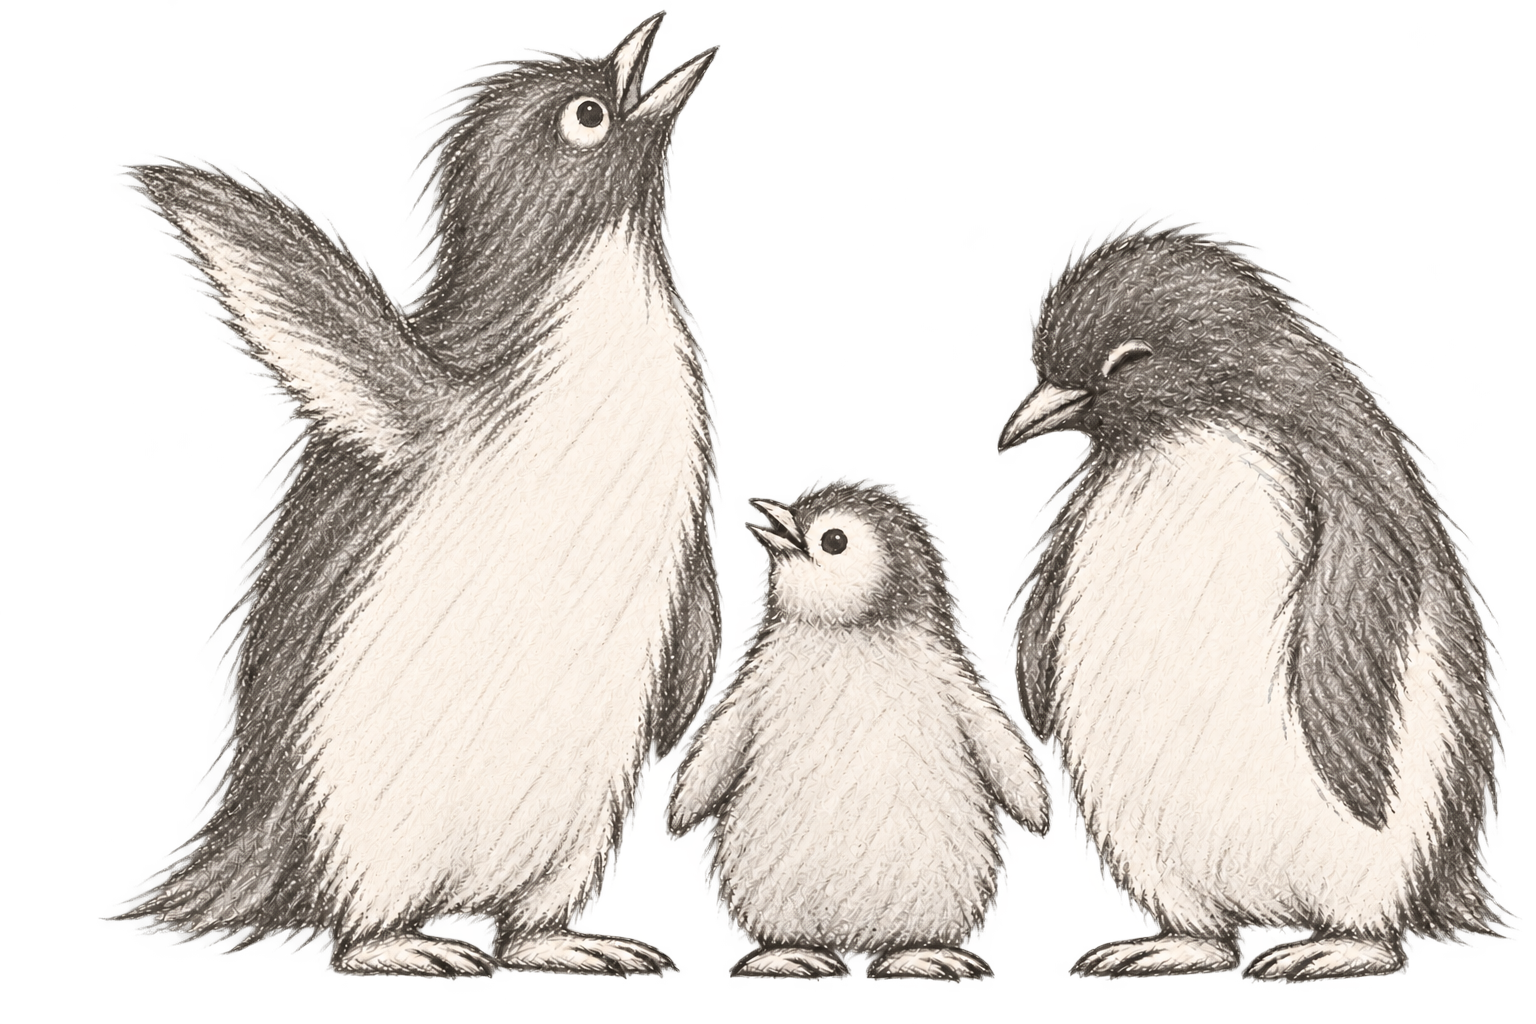
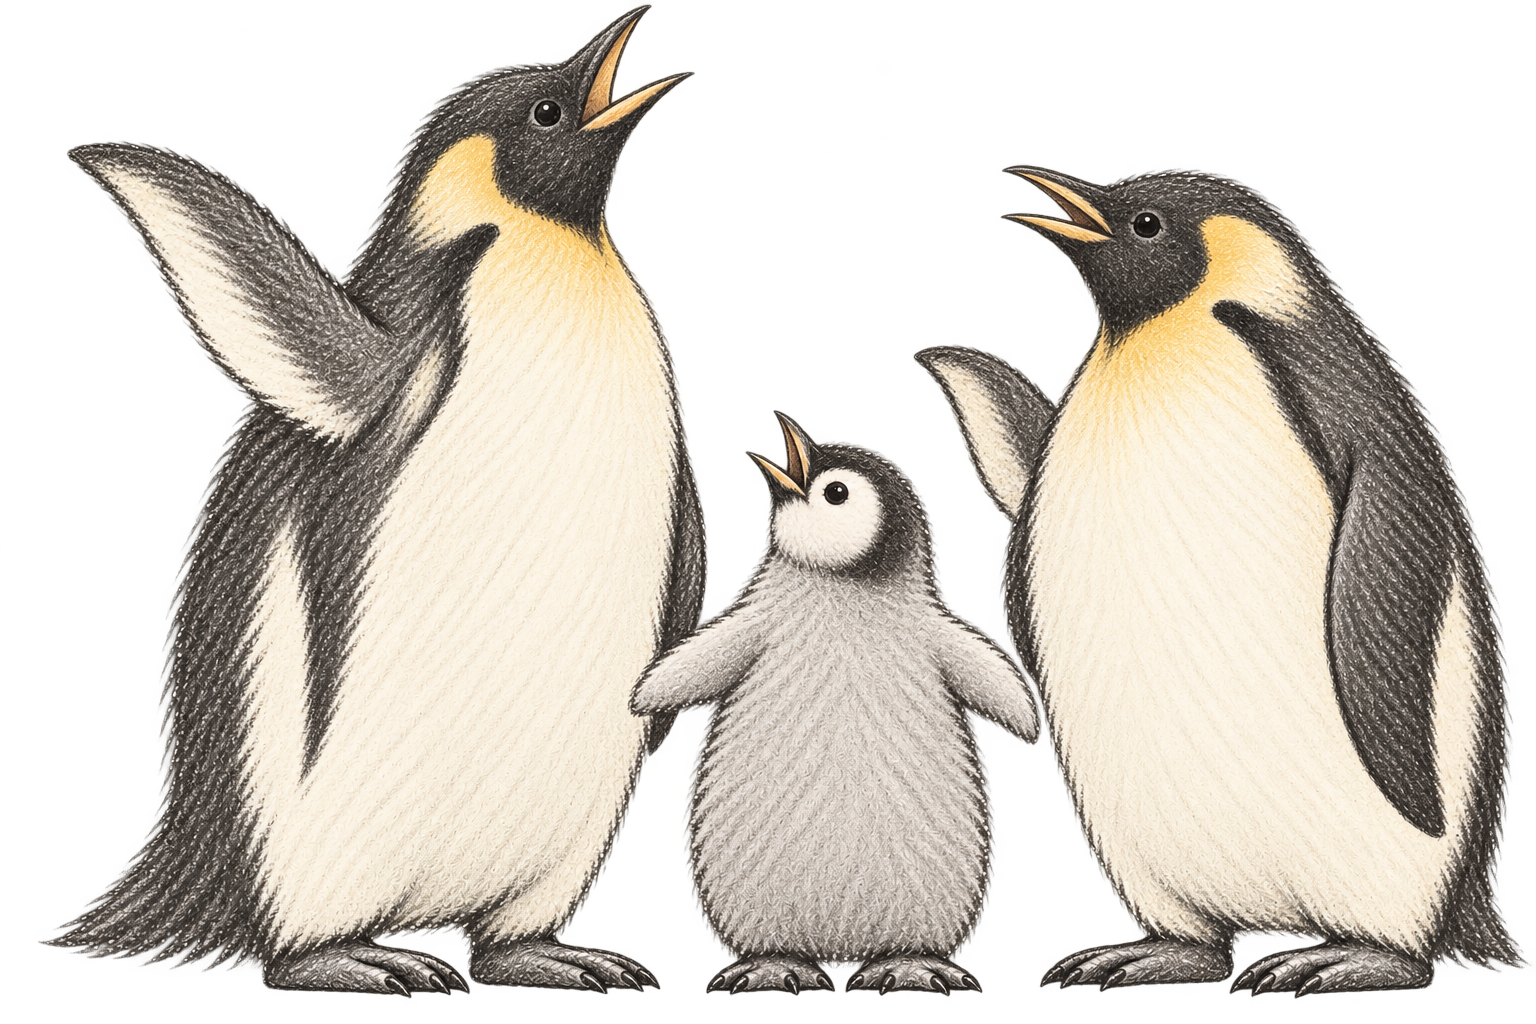
Update browser build with progressive sliding and animation refinements

diff --git a/src/physics.js b/src/physics.js
@@ -6,7 +6,7 @@ import {collideRocks,isSliding,applyRockFeedback} from './rocks.js';
 // Distances are world pixels; velocities are pixels/second. Mass is normalized to 1.
 export const CONFIG = Object.freeze({
   radius:17, halfHeight:22, gravity:1000, jump:300,
-  groundThrust:220, groundBrakeThrust:420, iceFriction:.018, iceLinearDrag:.025, iceQuadraticDrag:.00075,
+  groundThrust:220, groundBrakeThrust:420, slideRampTime:1, slideDriveGain:.12, iceFriction:.018, iceLinearDrag:.025, iceQuadraticDrag:.00075,
   standingFriction:.6,standingSpeed:18,
   airControl:100, swimThrust:650, swimHorizontalThrust:4400, buoyancy:75,
   waterLinearDrag:.45, waterQuadraticDrag:.0024,
@@ -21,7 +21,7 @@ export const remainingCharge = p => clamp(p.energy/storedWork(CONFIG.maxDepth),0
 export function createPlayer(x=150,y=238) {
   return {x,y,vx:0,vy:0,wet:false,grounded:false,maxDepth:0,energy:0,boosting:false,
     facing:1,event:null,checkpoint:false,checkpointIndex:-1,levelId:null,finished:false,lastCharge:0,surfaceJumped:false,
-    forceSlide:0,sliding:false,brokenRocks:[],rockContacts:[],rockDebris:[],rockPasses:[],rockBounce:false,rockTrip:false,chargeFloor:0,rechargePending:false,...healthState()};
+    forceSlide:0,sliding:false,slideDriveTime:0,slideDriveDirection:0,brokenRocks:[],rockContacts:[],rockDebris:[],rockPasses:[],rockBounce:false,rockTrip:false,chargeFloor:0,rechargePending:false,...healthState()};
 }
 export function checkpointsFor(level){return level.checkpoints|| (level.checkpoint?[level.checkpoint]:[]);}
 export function resetPlayer(p,level,fromStart=false) {
@@ -95,13 +95,20 @@ function touchingSurfaces(p,level){
 function moveOnIce(p,s,ix,dt) {
   const t=tangent(s);
   let speed=p.vx*t.x+p.vy*t.y;
+  const forward=ix!==0&&ix*speed>=0;
+  const building=forward&&isSliding(p);
+  if(!building||p.slideDriveDirection!==Math.sign(ix))p.slideDriveTime=0;
+  p.slideDriveDirection=building?Math.sign(ix):0;
+  if(building)p.slideDriveTime=Math.min(CONFIG.slideRampTime,p.slideDriveTime+dt);
+  const ramp=p.slideDriveTime/CONFIG.slideRampTime;
+  const driveGain=1+CONFIG.slideDriveGain*ramp*ramp*(3-2*ramp);
   const normalForce=CONFIG.gravity*t.x,downhillForce=CONFIG.gravity*t.y;
   // Standing feet grip more strongly than a sliding belly. Hold small residual
   // motion only when idle and gravity stays within the static-friction limit.
   if(ix===0&&Math.abs(speed)<CONFIG.standingSpeed&&Math.abs(downhillForce)<=CONFIG.standingFriction*normalForce){
     p.vx=0;p.vy=0;return;
   }
-  const drive=ix*speed<0?CONFIG.groundBrakeThrust:CONFIG.groundThrust;
+  const drive=ix*speed<0?CONFIG.groundBrakeThrust:CONFIG.groundThrust*driveGain;
   const force=ix*drive*t.x+CONFIG.gravity*t.y;
   speed=(speed+force*dt)/(1+(CONFIG.iceLinearDrag+CONFIG.iceQuadraticDrag*Math.abs(speed))*dt);
   const friction=CONFIG.iceFriction*CONFIG.gravity*t.x*dt;
@@ -143,7 +150,7 @@ export function step(p,input,level,dt) {
   p.rockEvent=null;p.rockHit=null;
   for(const e of p.rockDebris)e.age=Math.min(.36,e.age+dt);
   p.invulnerable=Math.max(0,p.invulnerable-dt);
-  if(p.hitStop>0){p.hitStop=Math.max(0,p.hitStop-dt);return;}
+  if(p.hitStop>0){p.slideDriveTime=0;p.slideDriveDirection=0;p.hitStop=Math.max(0,p.hitStop-dt);return;}
   if(p.pendingKnockback){
     p.vx=p.pendingKnockback.vx;p.vy=p.pendingKnockback.vy;p.pendingKnockback=null;
   }
@@ -160,6 +167,7 @@ export function step(p,input,level,dt) {
   const groundMotion=!!support&&!jump&&!wasWet;
   if(groundMotion)moveOnIce(p,support,ix,dt);
   else {
+    p.slideDriveTime=0;p.slideDriveDirection=0;
     if(support&&jump&&!wasWet){
       const t=tangent(support);p.vx+=CONFIG.jump*t.y;p.vy-=CONFIG.jump*t.x;p.event='jump';
     }

diff --git a/src/checkpoint-family.js b/src/checkpoint-family.js
@@ -6,7 +6,7 @@ export function checkpointFamilySprite(player,index){
 }
 
 export function drawCheckpointFamily(c,art,level,cam,cp,index,player){
-  // Leave the nest and the arriving player clear; adults match the hero's height.
+  // Larger emperor penguins stand beyond the nest and remain clear of the player.
   drawGroundedSprite(c,art,checkpointFamilySprite(player,index),level,cam,
-    cp.x+105,cp.y+22,96,64,.5,true);
+    cp.x+123,cp.y+22,132,88,.5,true);
 }
